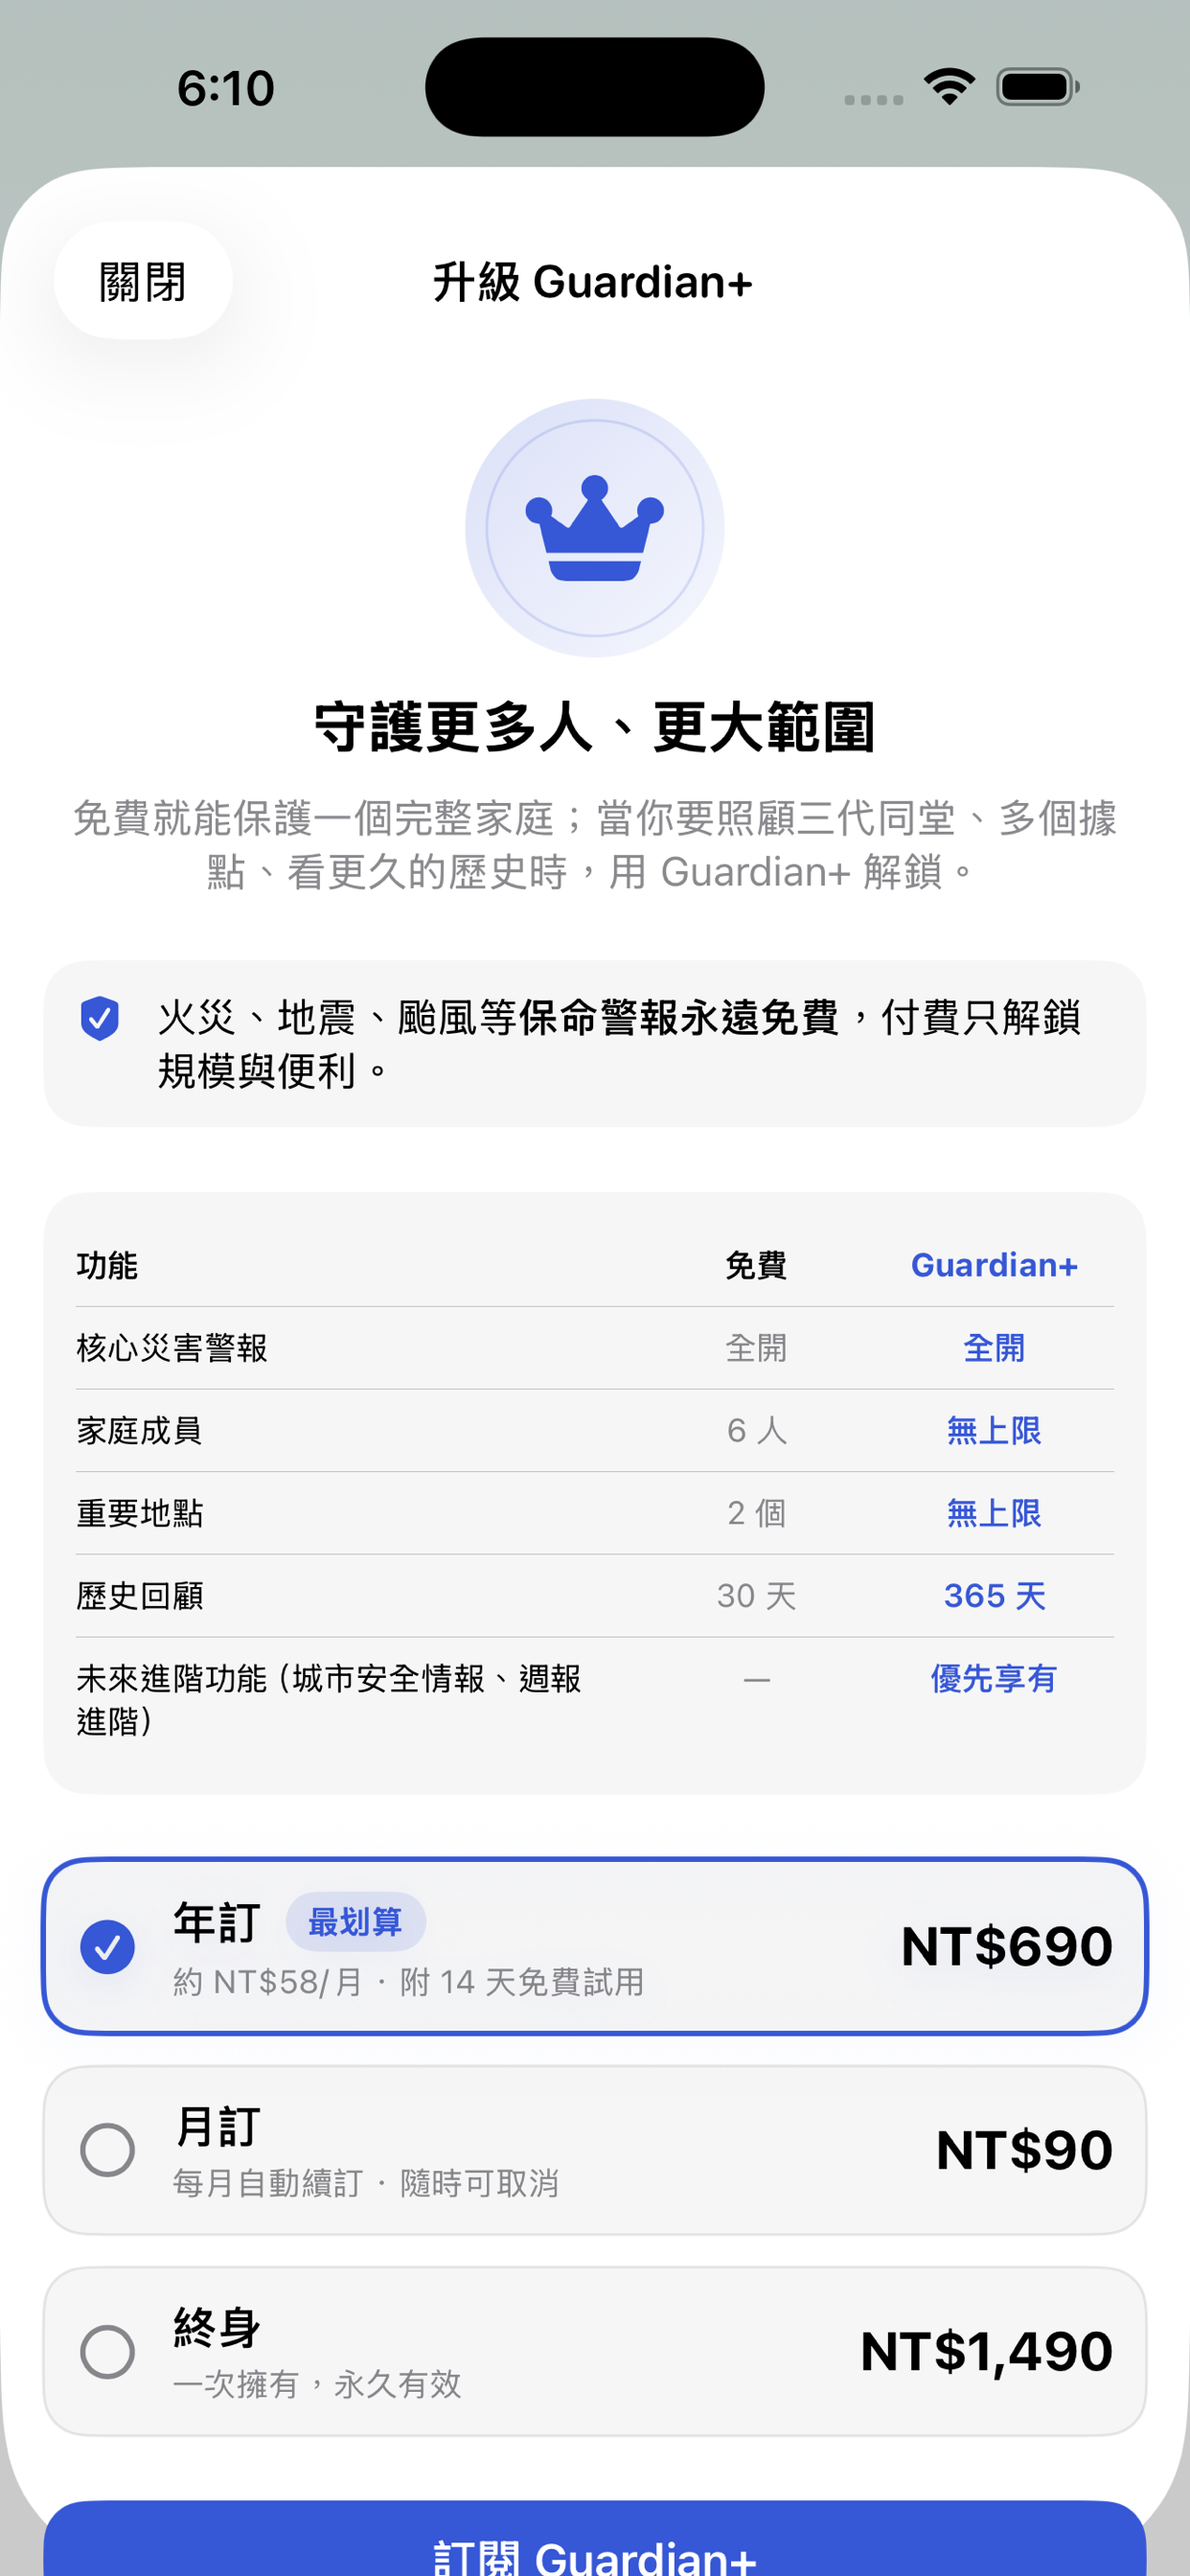
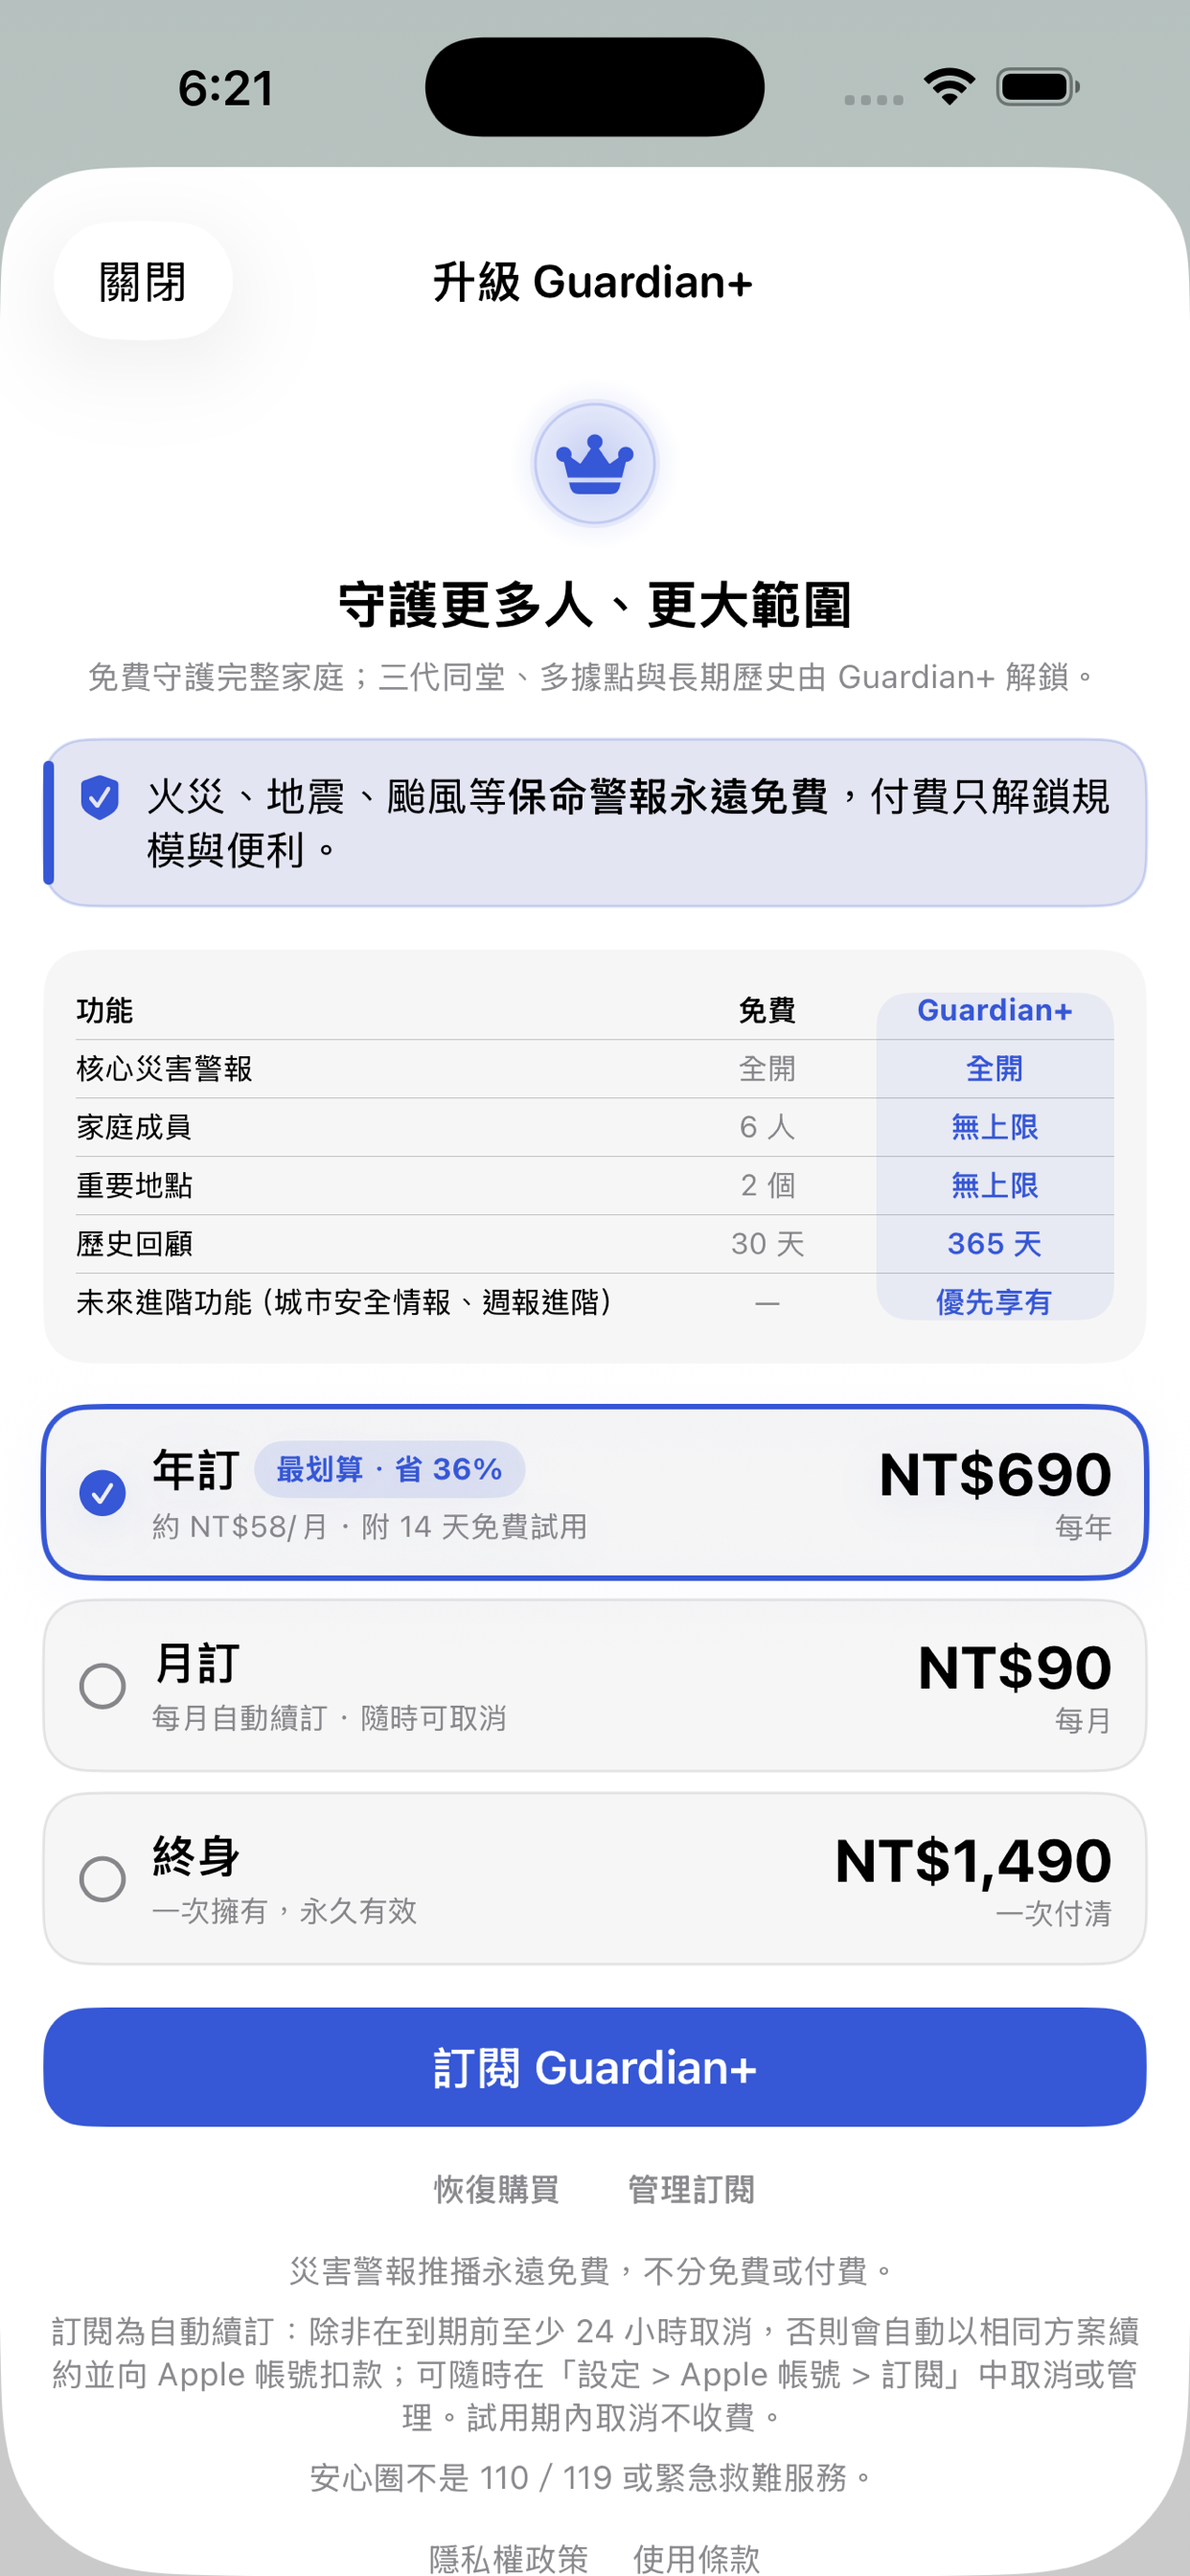
付費牆視覺重設計（codex 執行、fable 驗收、使用者定稿）：一屏完整呈現＋信任錨強化
- hero 壓縮＋品牌光暈，整頁不捲動可見 CTA
- 保命警報免費承諾卡改品牌色底＋左色條（信任錨點）
- 對照表 Guardian+ 欄貫穿式淡底、行高收緊
- 年訂「最划算 · 省 36%」pill、三卡價格大字＋單位小字
- 深淺色皆驗證；IAP 審查截圖同步更新兩種尺寸

Changed region(s): [[0.0306, 0.1562, 0.9791, 0.6875], [0.0306, 0.6875, 0.9791, 1.0], [0.1836, 0.0312, 0.2142, 0.0625]]

diff --git a/HavenCircle/Views/Settings/PaywallView.swift b/HavenCircle/Views/Settings/PaywallView.swift
@@ -39,7 +39,7 @@ struct PaywallView: View {
     var body: some View {
         NavigationStack {
             ScrollView {
-                VStack(spacing: HCSpacing.x6) {
+                VStack(spacing: HCSpacing.x4) {
                     header
                     safetyFreeBanner
                     if store.isPlus {
@@ -60,7 +60,7 @@ struct PaywallView: View {
                     legalLinks
                 }
                 .padding(.horizontal, HCSpacing.x4)
-                .padding(.bottom, HCSpacing.x6)
+                .padding(.bottom, HCSpacing.x4)
             }
             .navigationTitle("升級 Guardian+")
             .navigationBarTitleDisplayMode(.inline)
@@ -76,38 +76,49 @@ struct PaywallView: View {
     }
 
     private var header: some View {
-        VStack(spacing: HCSpacing.x3) {
+        VStack(spacing: HCSpacing.x2) {
             ZStack {
                 Circle()
                     .fill(
-                        LinearGradient(
-                            colors: [HCColor.brand.opacity(0.18), HCColor.brand.opacity(0.05)],
-                            startPoint: .topLeading,
-                            endPoint: .bottomTrailing
+                        RadialGradient(
+                            colors: [
+                                HCColor.brand.opacity(0.24),
+                                HCColor.brand.opacity(0.10),
+                                HCColor.brand.opacity(0),
+                            ],
+                            center: .center,
+                            startRadius: 0,
+                            endRadius: 32
                         )
                     )
-                    .frame(width: 96, height: 96)
+                    .frame(width: 64, height: 64)
                 Circle()
-                    .stroke(HCColor.brand.opacity(0.16), lineWidth: 1)
-                    .frame(width: 80, height: 80)
+                    .fill(HCColor.brand.opacity(0.08))
+                    .frame(width: 48, height: 48)
+                Circle()
+                    .stroke(HCColor.brand.opacity(0.20), lineWidth: 1)
+                    .frame(width: 44, height: 44)
                 Image(systemName: "crown.fill")
-                    .font(.system(size: 40, weight: .medium))
+                    .font(.system(size: 22, weight: .semibold))
                     .foregroundStyle(HCColor.brand)
             }
             Text("守護更多人、更大範圍")
-                .font(.title2.weight(.bold))
+                .font(.title3.weight(.bold))
                 .multilineTextAlignment(.center)
-            Text("免費就能保護一個完整家庭；當你要照顧三代同堂、多個據點、看更久的歷史時，用 Guardian+ 解鎖。")
-                .font(.subheadline)
+            Text("免費守護完整家庭；三代同堂、多據點與長期歷史由 Guardian+ 解鎖。")
+                .font(.caption)
                 .foregroundStyle(.secondary)
                 .multilineTextAlignment(.center)
+                .lineLimit(1)
+                .minimumScaleFactor(0.78)
+                .allowsTightening(true)
         }
-        .padding(.top, HCSpacing.x3)
+        .padding(.top, HCSpacing.x1)
     }
 
     /// 最醒目的一條：安全永遠免費（倫理與信任的核心訊息）
     private var safetyFreeBanner: some View {
-        HStack(alignment: .top, spacing: HCSpacing.x3) {
+        HStack(alignment: .top, spacing: HCSpacing.x2) {
             Image(systemName: "checkmark.shield.fill")
                 .fontWeight(.medium)
                 .foregroundStyle(HCColor.brand)
@@ -117,6 +128,20 @@ struct PaywallView: View {
         }
         .frame(maxWidth: .infinity, alignment: .leading)
         .hcCard()
+        .background(
+            HCColor.brand.opacity(0.10),
+            in: RoundedRectangle(cornerRadius: HCRadius.card, style: .continuous)
+        )
+        .overlay(
+            RoundedRectangle(cornerRadius: HCRadius.card, style: .continuous)
+                .stroke(HCColor.brand.opacity(0.22), lineWidth: 1)
+        )
+        .overlay(alignment: .leading) {
+            Capsule()
+                .fill(HCColor.brand)
+                .frame(width: HCSpacing.x1)
+                .padding(.vertical, HCSpacing.x2)
+        }
     }
 
     /// 已是 Guardian+：整頁改為感謝狀態，不再顯示購買 UI。
@@ -151,22 +176,29 @@ struct PaywallView: View {
     }
 
     private var comparisonCard: some View {
-        VStack(spacing: 0) {
-            HStack {
-                Text("功能").font(.caption.weight(.semibold)).frame(maxWidth: .infinity, alignment: .leading)
-                Text("免費").font(.caption.weight(.semibold)).frame(width: 72)
-                Text("Guardian+").font(.caption.weight(.bold)).foregroundStyle(HCColor.brand).frame(width: 88)
-            }
-            .padding(.vertical, HCSpacing.x2)
-            Divider()
-            ForEach(tiers, id: \.feature) { row in
-                HStack(alignment: .firstTextBaseline) {
-                    Text(row.feature).font(.caption).frame(maxWidth: .infinity, alignment: .leading)
-                    Text(row.free).font(.caption).foregroundStyle(.secondary).frame(width: 72)
-                    Text(row.plus).font(.caption.weight(.semibold)).foregroundStyle(HCColor.brand).frame(width: 88)
+        ZStack(alignment: .trailing) {
+            RoundedRectangle(cornerRadius: HCRadius.chip, style: .continuous)
+                .fill(HCColor.brand.opacity(0.08))
+                .frame(width: 88)
+                .padding(.vertical, HCSpacing.x1)
+
+            VStack(spacing: 0) {
+                HStack(spacing: HCSpacing.x1) {
+                    Text("功能").font(.caption2.weight(.semibold)).frame(maxWidth: .infinity, alignment: .leading)
+                    Text("免費").font(.caption2.weight(.semibold)).frame(width: 72)
+                    Text("Guardian+").font(.caption2.weight(.bold)).foregroundStyle(HCColor.brand).frame(width: 88)
                 }
-                .padding(.vertical, HCSpacing.x2)
-                if row.feature != tiers.last?.feature { Divider() }
+                .padding(.vertical, HCSpacing.x1)
+                Divider()
+                ForEach(tiers, id: \.feature) { row in
+                    HStack(alignment: .firstTextBaseline, spacing: HCSpacing.x1) {
+                        Text(row.feature).font(.caption2).frame(maxWidth: .infinity, alignment: .leading)
+                        Text(row.free).font(.caption2).foregroundStyle(.secondary).frame(width: 72)
+                        Text(row.plus).font(.caption2.weight(.semibold)).foregroundStyle(HCColor.brand).frame(width: 88)
+                    }
+                    .padding(.vertical, HCSpacing.x1)
+                    if row.feature != tiers.last?.feature { Divider() }
+                }
             }
         }
         .hcCard()
@@ -188,12 +220,13 @@ struct PaywallView: View {
             .frame(maxWidth: .infinity)
             .hcCard()
         } else {
-            VStack(spacing: HCSpacing.x3) {
+            VStack(spacing: HCSpacing.x2) {
                 planCard(
                     title: "年訂",
                     price: store.yearlyProduct?.displayPrice ?? staticPrice("NT$690"),
+                    unit: "每年",
                     note: yearlyNote,
-                    badge: "最划算",
+                    badge: "最划算 · 省 36%",
                     selected: selectedPlan == .yearly
                 ) {
                     selectedPlan = .yearly
@@ -201,6 +234,7 @@ struct PaywallView: View {
                 planCard(
                     title: "月訂",
                     price: store.monthlyProduct?.displayPrice ?? staticPrice("NT$90"),
+                    unit: "每月",
                     note: "每月自動續訂 · 隨時可取消",
                     badge: nil,
                     selected: selectedPlan == .monthly
@@ -210,6 +244,7 @@ struct PaywallView: View {
                 planCard(
                     title: "終身",
                     price: store.lifetimeProduct?.displayPrice ?? staticPrice("NT$1,490"),
+                    unit: "一次付清",
                     note: "一次擁有，永久有效",
                     badge: nil,
                     selected: selectedPlan == .lifetime,
@@ -258,6 +293,7 @@ struct PaywallView: View {
     private func planCard(
         title: String,
         price: String?,
+        unit: String,
         note: String,
         badge: String?,
         selected: Bool,
@@ -265,16 +301,16 @@ struct PaywallView: View {
         tap: @escaping () -> Void
     ) -> some View {
         Button(action: tap) {
-            HStack(spacing: HCSpacing.x3) {
+            HStack(spacing: HCSpacing.x2) {
                 Image(systemName: selected ? "checkmark.circle.fill" : "circle")
                     .foregroundStyle(selected ? HCColor.brand : .secondary)
-                    .font(.title3.weight(.medium))
+                    .font(.body.weight(.medium))
                 VStack(alignment: .leading, spacing: HCSpacing.x1) {
-                    HStack(spacing: HCSpacing.x2) {
+                    HStack(spacing: HCSpacing.x1) {
                         Text(title).font(.body.weight(.semibold))
                         if let badge {
                             Text(badge)
-                                .font(.caption.weight(.bold))
+                                .font(.caption2.weight(.bold))
                                 .padding(.horizontal, HCSpacing.x2)
                                 .padding(.vertical, HCSpacing.x1)
                                 .background(
@@ -284,16 +320,30 @@ struct PaywallView: View {
                                 .foregroundStyle(HCColor.brand)
                         }
                     }
-                    Text(note).font(.caption).foregroundStyle(.secondary)
+                    Text(note)
+                        .font(.caption2)
+                        .foregroundStyle(.secondary)
+                        .lineLimit(1)
+                        .minimumScaleFactor(0.85)
                 }
-                Spacer()
+                Spacer(minLength: HCSpacing.x2)
                 if let price {
-                    Text(price).font(.title3.weight(.bold))
+                    VStack(alignment: .trailing, spacing: 0) {
+                        Text(price).font(.title2.weight(.bold))
+                        Text(unit)
+                            .font(.caption2)
+                            .foregroundStyle(.secondary)
+                    }
                 } else {
                     // 商品尚未載入完成：先用同尺寸佔位文字避免版面跳動，載入完成即替換
-                    Text("NT$00")
-                        .font(.title3.weight(.bold))
-                        .redacted(reason: .placeholder)
+                    VStack(alignment: .trailing, spacing: 0) {
+                        Text("NT$00")
+                            .font(.title2.weight(.bold))
+                            .redacted(reason: .placeholder)
+                        Text(unit)
+                            .font(.caption2)
+                            .foregroundStyle(.secondary)
+                    }
                 }
             }
             .hcCard()
